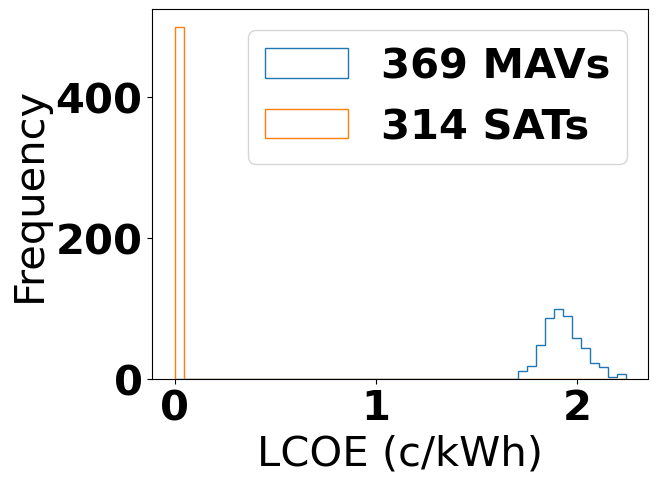
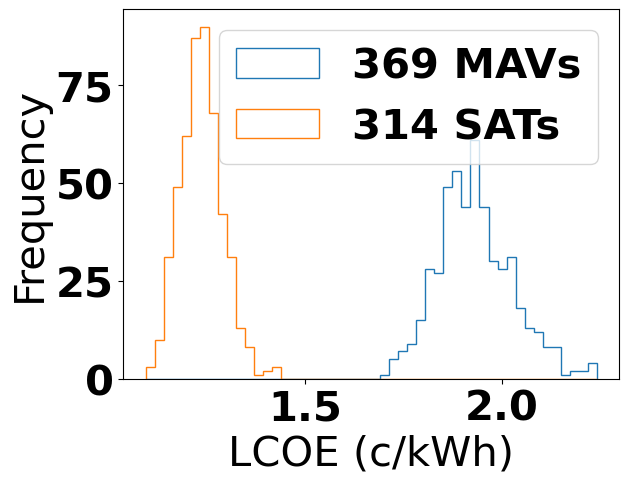
tidying up figures

diff --git a/MAIN.py b/MAIN.py
@@ -59,9 +59,9 @@ weather_simulation = func.weather(simulation_years, weather_file)
 
 # %% ======================================
 # Rack_module
-rack_type = 'SAT_1'  # Choose rack_type from 5B_MAV or SAT_1 for maverick or single axis tracking respectively
-module_type = 'LPERC_2023_M10'  # Enter one of the modules from the SunCable module database
-install_year = 2025
+rack_type = '5B_MAV'  # Choose rack_type from 5B_MAV or SAT_1 for maverick or single axis tracking respectively
+module_type = 'HJT_2028_M10'  # Enter one of the modules from the SunCable module database
+install_year = 2028
 rack_params, module_params = func.rack_module_params(rack_type, module_type)
 
 # %%

diff --git a/monte_carlo_npv_plot.py b/monte_carlo_npv_plot.py
@@ -4,8 +4,8 @@ import pandas as pd
 import numpy as np
 import os
 
-module_name = 'LPERC_2023_M10'
-install_year = 2025
+module_name = 'HJT_2028_M10'
+install_year = 2028
 
 npv_mav_iter = pd.read_csv(os.path.join('Data', 'OutputData', '5B_MAV ' + module_name + ' install_' + str(install_year) + ' NPV.csv'), index_col=1)
 Scenario_name = str(npv_mav_iter['ScenarioID'].values[0]) + ' MAVs'
